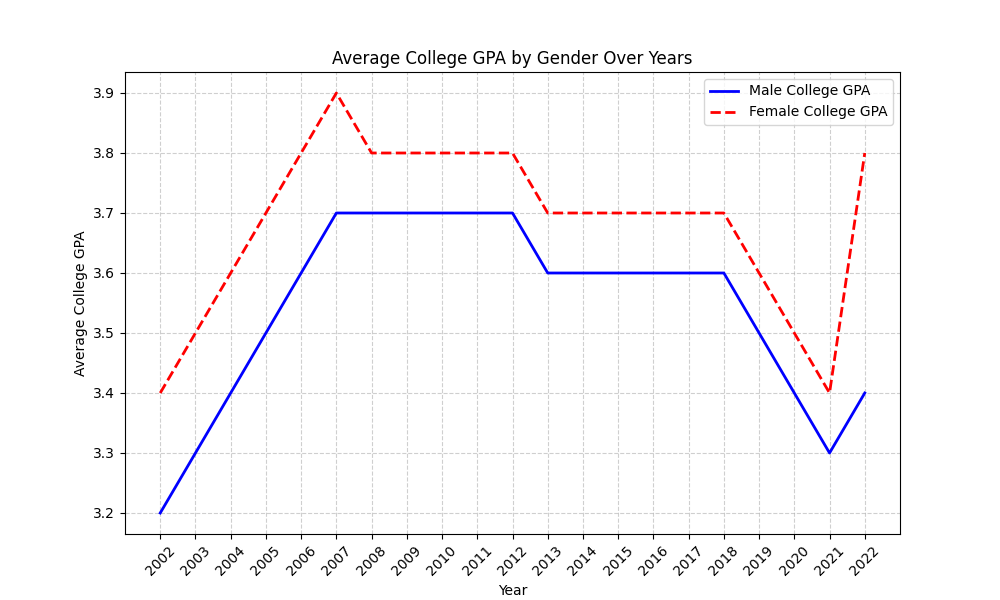
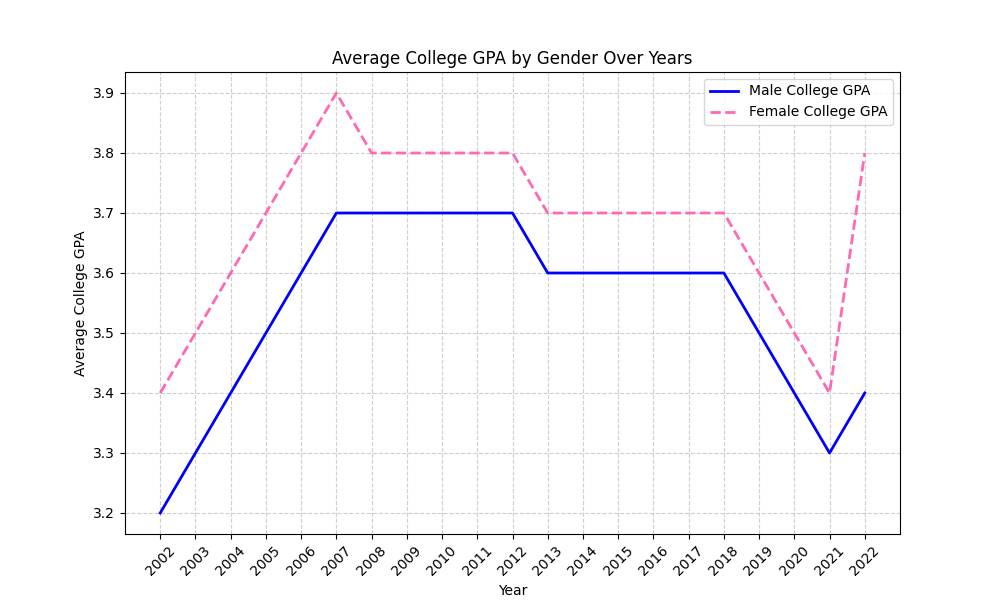
.

diff --git a/index.html b/index.html
@@ -21,7 +21,7 @@ Last updated: 05 / 23 / 2024
                     <h1>Men Versus Women from learning data scientists</h1>
                     <h3>By Michael Yurachek, Bryden Kite</h3>
                     <div id="headerSocials">
-                        <img src="/assets/images/social-icons/0001.png" class="headerIcons" onclick="window.location.assign('https://www.instagram.com/skyzerbefr/')">
+                        <img src="/assets/images/social-icons/0001.png" class="headerIcons" onclick="window.location.assign('https://www.instagram.com/michaelyurachek/')">
                         <img src="/assets/images/social-icons/0002.png" class="headerIcons" onclick="window.location.assign('https://github.com/Michael-07Y')">
                         <img src="/assets/images/social-icons/0003.png" class="headerIcons" onclick="window.location.assign('https://www.snapchat.com/add/skyzer_07?invite_id=PzQfgXtn&locale=en_US&share_id=LRT02RfeQsi0oRTSPk3Iqg&sid=e13db09132ff4e55b3a0f35a4a761dc1')">
                     </div>
@@ -53,21 +53,21 @@ Last updated: 05 / 23 / 2024
                     </div>
                 </div>
                 <div class="fjInfoHolder" id="fjImages">
-                    <img src="/assets/images/graphs/genderIncomeGraph.png">
-                    <img src="/assets/images/graphs/genderIncomeGraph.png">
+                    <img src="/assets/images/graphs/genderIncomeGraph.png"> <!-- CHANGE TO SURVEY RESULTS -->
+                    <img src="/assets/images/graphs/genderIncomeGraph.png"> 
                 </div>
             </div>
             <div class="pageSections" id="fjEducSection">
                 <div class="educationContainer" id="edcDescReps">
                     <h3>Education Differences</h3>
-                    <p>EXAMPLE TEXT</p>
+                    <p>As time goes on, by the visual of the differences in GPA in college and high school, females have been the leading average for higher GPA.  By the visualization, the peak of high school GPA was around 2010 and the lowest drop was around 2020. Also the college graph shows how the Covid pandemic made a massive change to GPA in college by different genders. </p>
                 </div>
                 <div class="educationContainer" id="edcGraphs">
-                    <img class="edGraphImages" src="/assets/images/graphs/genderHighGPAGraph.png" id="highGraph">
-                    <img class="edGraphImages" src="/assets/images/graphs/genderColGPAGraph.png" id="collegeGraph">
-                    <img class="edGraphImages" src="/assets/images/graphs/genderColGPAGraph.png" id="edcSurveyGraph">
-                    <a class="imageNavButtons" id="edcBackBtn" onclick="nextGraph()"><</a>
-                    <a class="imageNavButtons" id="edcNextBtn" onclick="nextGraph()">></a>
+                    <img class="edGraphImages" src="/assets/images/graphs/genderHighGPAGraph.png" id="highGraph"> <!-- First Rotation | #1 -->
+                    <img class="edGraphImages" src="/assets/images/graphs/genderColGPAGraph.png" id="collegeGraph"> <!-- Second Rotation | #2 -->
+                    <img class="edGraphImages" src="/assets/images/graphs/genderIncomeGraph.png" id="edcSurveyGraph"> <!-- Third Rotation | #3 --> <!-- CHANGE TO SURVEY RESULTS -->
+                    <a class="imageNavButtons" id="edcBackBtn" onclick="nextGraph(1)"><</a>
+                    <a class="imageNavButtons" id="edcNextBtn" onclick="nextGraph(0)">></a>
                 </div>
                 <div class="educationContainer" id="edcSurveyReps">
                     <h3>Survey Responses</h3>

diff --git a/scripts/script.js b/scripts/script.js
@@ -1,0 +1,44 @@
+currentGraph = 1;
+function nextGraph(direction) {
+    if (direction == 1) {
+        if (currentGraph == 1) {
+            document.getElementById("highGraph").style.display = "none";
+            document.getElementById("edcSurveyGraph").style.display = "block";
+            currentGraph = 3;
+            return currentGraph;
+        } else if (currentGraph == 2) {
+            document.getElementById("collegeGraph").style.display = "none";
+            document.getElementById("highGraph").style.display = "block";
+            currentGraph = 1;
+            return currentGraph;
+        } else if (currentGraph == 3) {
+            document.getElementById("edcSurveyGraph").style.display = "none";
+            document.getElementById("collegeGraph").style.display = "block";
+            currentGraph = 2;
+            return currentGraph;
+        } else {
+            console.log("Page error | Page failed to change graphs")
+        }
+    } else if (direction == 2) {
+        if (currentGraph == 1) {
+            document.getElementById("highGraph").style.display = "none";
+            document.getElementById("collegeGraph").style.display = "block";
+            currentGraph = 2;
+            return currentGraph;
+        } else if (currentGraph == 2) {
+            document.getElementById("collegeGraph").style.display = "none";
+            document.getElementById("edcSurveyGraph").style.display = "block";
+            currentGraph = 3;
+            return currentGraph;
+        } else if (currentGraph == 3) {
+            document.getElementById("edcSurveyGraph").style.display = "none";
+            document.getElementById("highGraph").style.display = "block";
+            currentGraph = 1;
+            return currentGraph;
+        } else {
+            console.log("Page error | Page failed to change graphs")
+        }
+    } else {
+        console.log("Page error | Could not change graphs direction")
+    }
+}

diff --git a/styles/style.css b/styles/style.css
@@ -273,11 +273,19 @@ body {
     flex-direction: column;
 }
 
+.educationContainer p {
+    color: white;
+    font-size: 1.5em;
+    width: 90%;
+    text-align: center;
+    line-height: 4vh;
+}
+
 #edcDescReps {
     gap: 2vh;
 }
 
-#edcDescReps h3 {
+.educationContainer h3 {
     font-size: 2.5em;
     color: white;
 }

diff --git a/python/finance.py b/python/finance.py
@@ -24,8 +24,8 @@ plt.figure(figsize=(10,6))
 # Plot male high school GPA with blue color and solid line
 plt.plot(yr, maleInc, color='blue', linestyle='-', linewidth=2, label='Male Average Income')
 
-# Plot female high school GPA with red color and dashed line
-plt.plot(yr, femaleInc, color='red', linestyle='--', linewidth=2, label='Female Average Income')
+# Plot female high school GPA with hotpink color and dashed line
+plt.plot(yr, femaleInc, color='hotpink', linestyle='--', linewidth=2, label='Female Average Income')
 
 # Add labels and title
 plt.xlabel('Year')

diff --git a/python/highGPA.py b/python/highGPA.py
@@ -24,8 +24,8 @@ plt.figure(figsize=(10,6))
 # Plot male high school GPA with blue color and solid line
 plt.plot(yr, mHSgpa, color='blue', linestyle='-', linewidth=2, label='Male High School GPA')
 
-# Plot female high school GPA with red color and dashed line
-plt.plot(yr, fHSgpa, color='red', linestyle='--', linewidth=2, label='Female High School GPA')
+# Plot female high school GPA with hotpink color and dashed line
+plt.plot(yr, fHSgpa, color='hotpink', linestyle='--', linewidth=2, label='Female High School GPA')
 
 # Add labels and title
 plt.xlabel('Year')

diff --git a/python/collGPA.py b/python/collGPA.py
@@ -24,8 +24,8 @@ plt.figure(figsize=(10,6))
 # Plot male high school GPA with blue color and solid line
 plt.plot(yr, mColgpa, color='blue', linestyle='-', linewidth=2, label='Male College GPA')
 
-# Plot female high school GPA with red color and dashed line
-plt.plot(yr, fColgpa, color='red', linestyle='--', linewidth=2, label='Female College GPA')
+# Plot female high school GPA with hotpink color and dashed line
+plt.plot(yr, fColgpa, color='hotpink', linestyle='--', linewidth=2, label='Female College GPA')
 
 # Add labels and title
 plt.xlabel('Year')
